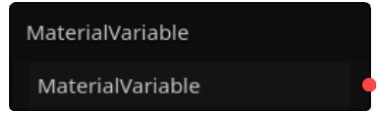
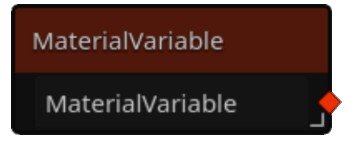
Update images to match new look

diff --git a/docs/2.0/tutorials/anatomy-of-a-graph.md b/docs/2.0/tutorials/anatomy-of-a-graph.md
@@ -4,7 +4,7 @@ Graphs in Gaea all have to lead to the Output Node in order for the generation t
 
 ## Slots
 
-![A screenshot highlighting the input and output slots of nodes](../../assets/tutorials/anatomy-of-a-graph/slots.png)
+![A screenshot highlighting the input and output slots of nodes](/../assets/tutorials/anatomy-of-a-graph/slots.png)
 
 Gaea nodes have input and output slots. On the left side of the node, we have the input ones, and on the right, the output ones. Input slots for arguments (such as in the SimplexSmooth2D node, allow for overriding the values set in the node interface, but are optional).
 
@@ -13,14 +13,16 @@ This is how you'll connect nodes to each other.
 ### Slot Types
 Slot types are differentiated by their colors:
 
-| Type | Color | Description | Example |
+| Type | Color & Shape | Description | Example |
 | --- | --- | --- | --- |
-| Number | Light Gray | Can be a `float` or an `int`. | ![FloatVariable node](/../assets/tutorials/anatomy-of-a-graph/float_example.png) |
-| Material | Red | A `GaeaMaterial` resource. Learn more about it in [How Gaea Works](/how-gaea-works.md) | ![MaterialVariable node](/../assets/tutorials/anatomy-of-a-graph/material_example.png) |
-| Data | Gray | A grid of floats. | ![SimplexSmooth2D node](/../assets/tutorials/anatomy-of-a-graph/data_example.png) |
-| Map | Light Green | A grid of `GaeaMaterial`s. | ![MergeMaps node](/../assets/tutorials/anatomy-of-a-graph/map_example.png) | 
-| Range | Dark Gray | A range between one number and another | ![ComposeRange node](/../assets/tutorials/anatomy-of-a-graph/range_example.png) |
-| Boolean | Green | True or false | ![BoolVariable node](/../assets/tutorials/anatomy-of-a-graph/bool_example.png) |
+| Number | Gray Circle | Can be a `float` or an `int`. | ![FloatVariable node](/../assets/tutorials/anatomy-of-a-graph/float_example.png) |
+| Material | Red Diamond | A `GaeaMaterial` resource. Learn more about it in [How Gaea Works](/how-gaea-works.md) | ![MaterialVariable node](/../assets/tutorials/anatomy-of-a-graph/material_example.png) |
+| Data | White Square | A grid of floats. | ![SimplexSmooth2D node](/../assets/tutorials/anatomy-of-a-graph/data_example.png) |
+| Map | Green Tag | A grid of `GaeaMaterial`s. | ![MergeMaps node](/../assets/tutorials/anatomy-of-a-graph/map_example.png) | 
+| Range | Pink Ring | A range between one number and another | ![ComposeRange node](/../assets/tutorials/anatomy-of-a-graph/range_example.png) |
+| Boolean | Yellow Rounded Square | `true` or `false` | ![BoolConstant node](/../assets/tutorials/anatomy-of-a-graph/bool_example.png) |
+| Vector2/3 | Light Blue Triangle/Purple Hourglass | 2/3 numbers: `x`, `y` and `z` | ![Vector2Constant and Vector3Constant nodes](/../assets/tutorials/anatomy-of-a-graph/vector_examples.png) |
+
 
 # Special Nodes
 
@@ -28,4 +30,4 @@ Slot types are differentiated by their colors:
 
 ![A frame holding 3 nodes, with the title "Create noise and map tiles to it"](/../assets/tutorials/anatomy-of-a-graph/frame.png)
 
-Frames can be used to organize your graphs. You can attach nodes to them, and they'll automatically resize to fit them. Select them, then right click to get a list of options, including changing its title to whatever you want.
+Frames can be used to organize your graphs. You can attach nodes to them, and they'll automatically resize to fit them. Right click frames to get option dropdowns, such as: changing the title, changing the background color, etc.

diff --git a/docs/2.0/README.md b/docs/2.0/README.md
@@ -12,7 +12,7 @@ Gaea 2.0 is an **add-on for Godot 4.4**\*, designed to empower your project with
 
 Gaea uses a graph system to create a flow of customizable nodes for endless posibilities in generation, both 2D and 3D. Creating custom nodes is easy, too, so you aren't limited by what the addon has.
 
-![A graph showing a bunch of interconnected nodes leading to a final output node](/assets/graph_system.png)
+![A graph showing a bunch of interconnected nodes leading to a final output node](/assets/graph-system.png)
 
 Gaea 2.0 can generate terrains such as:
 
